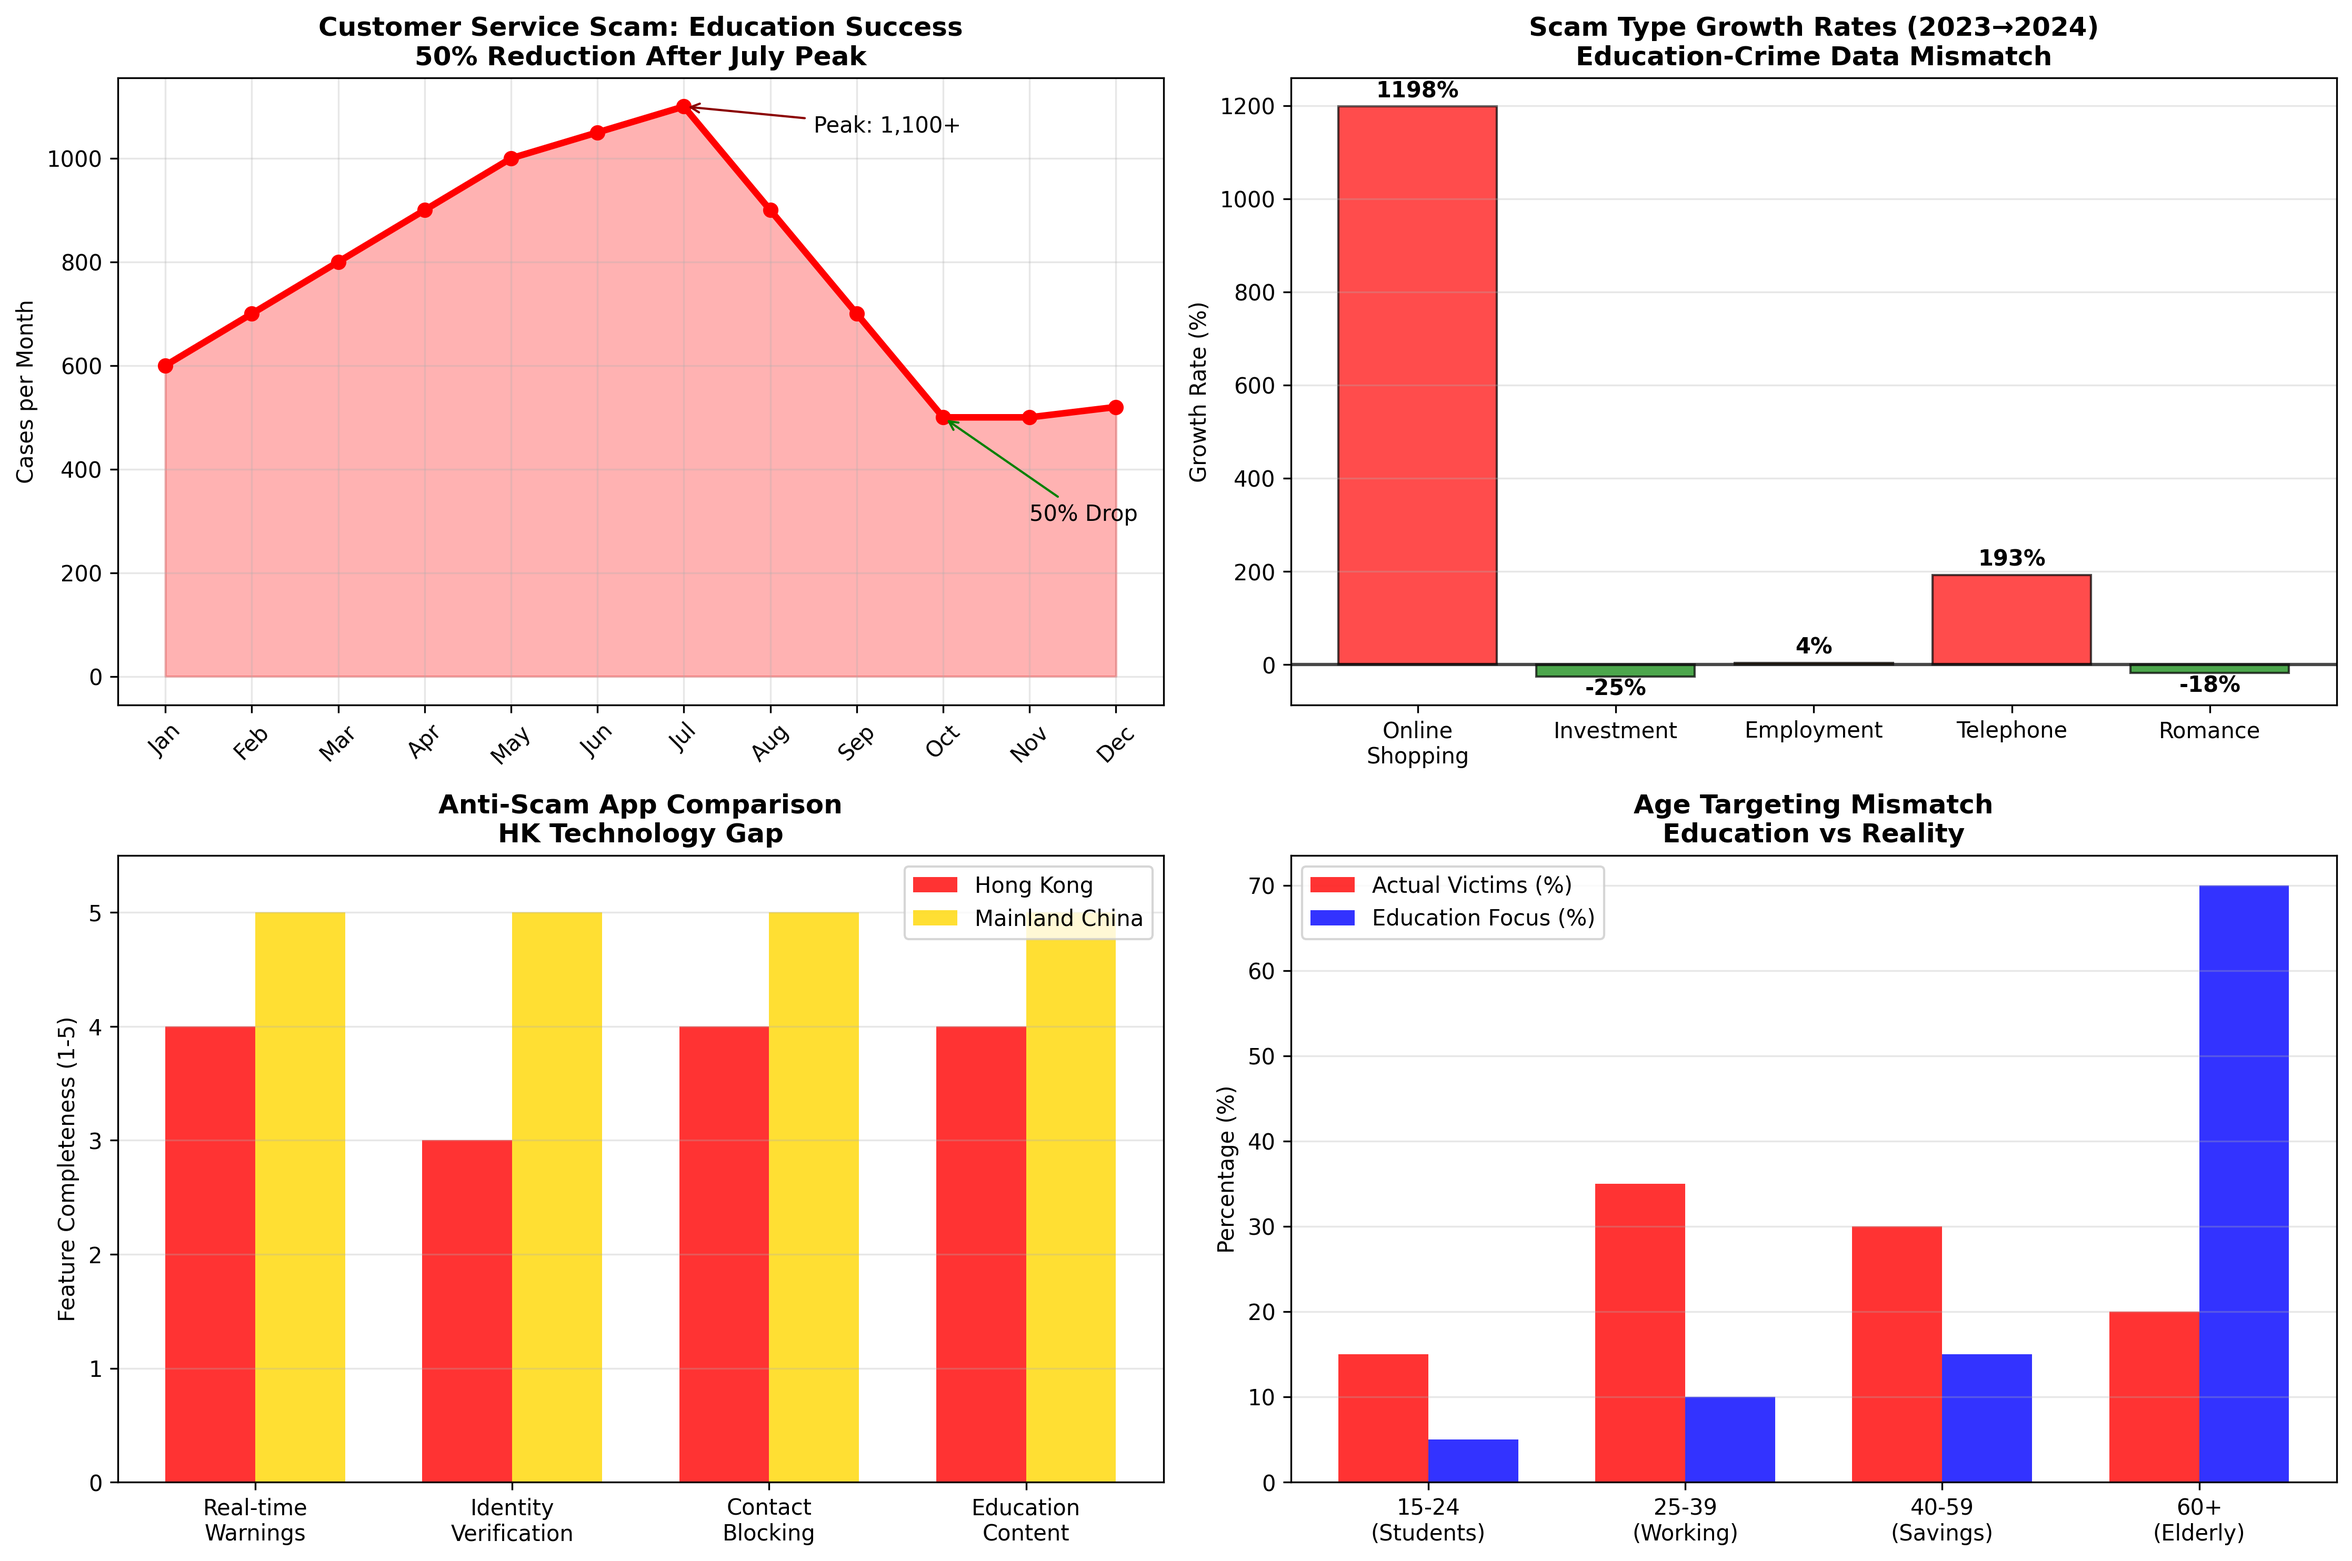
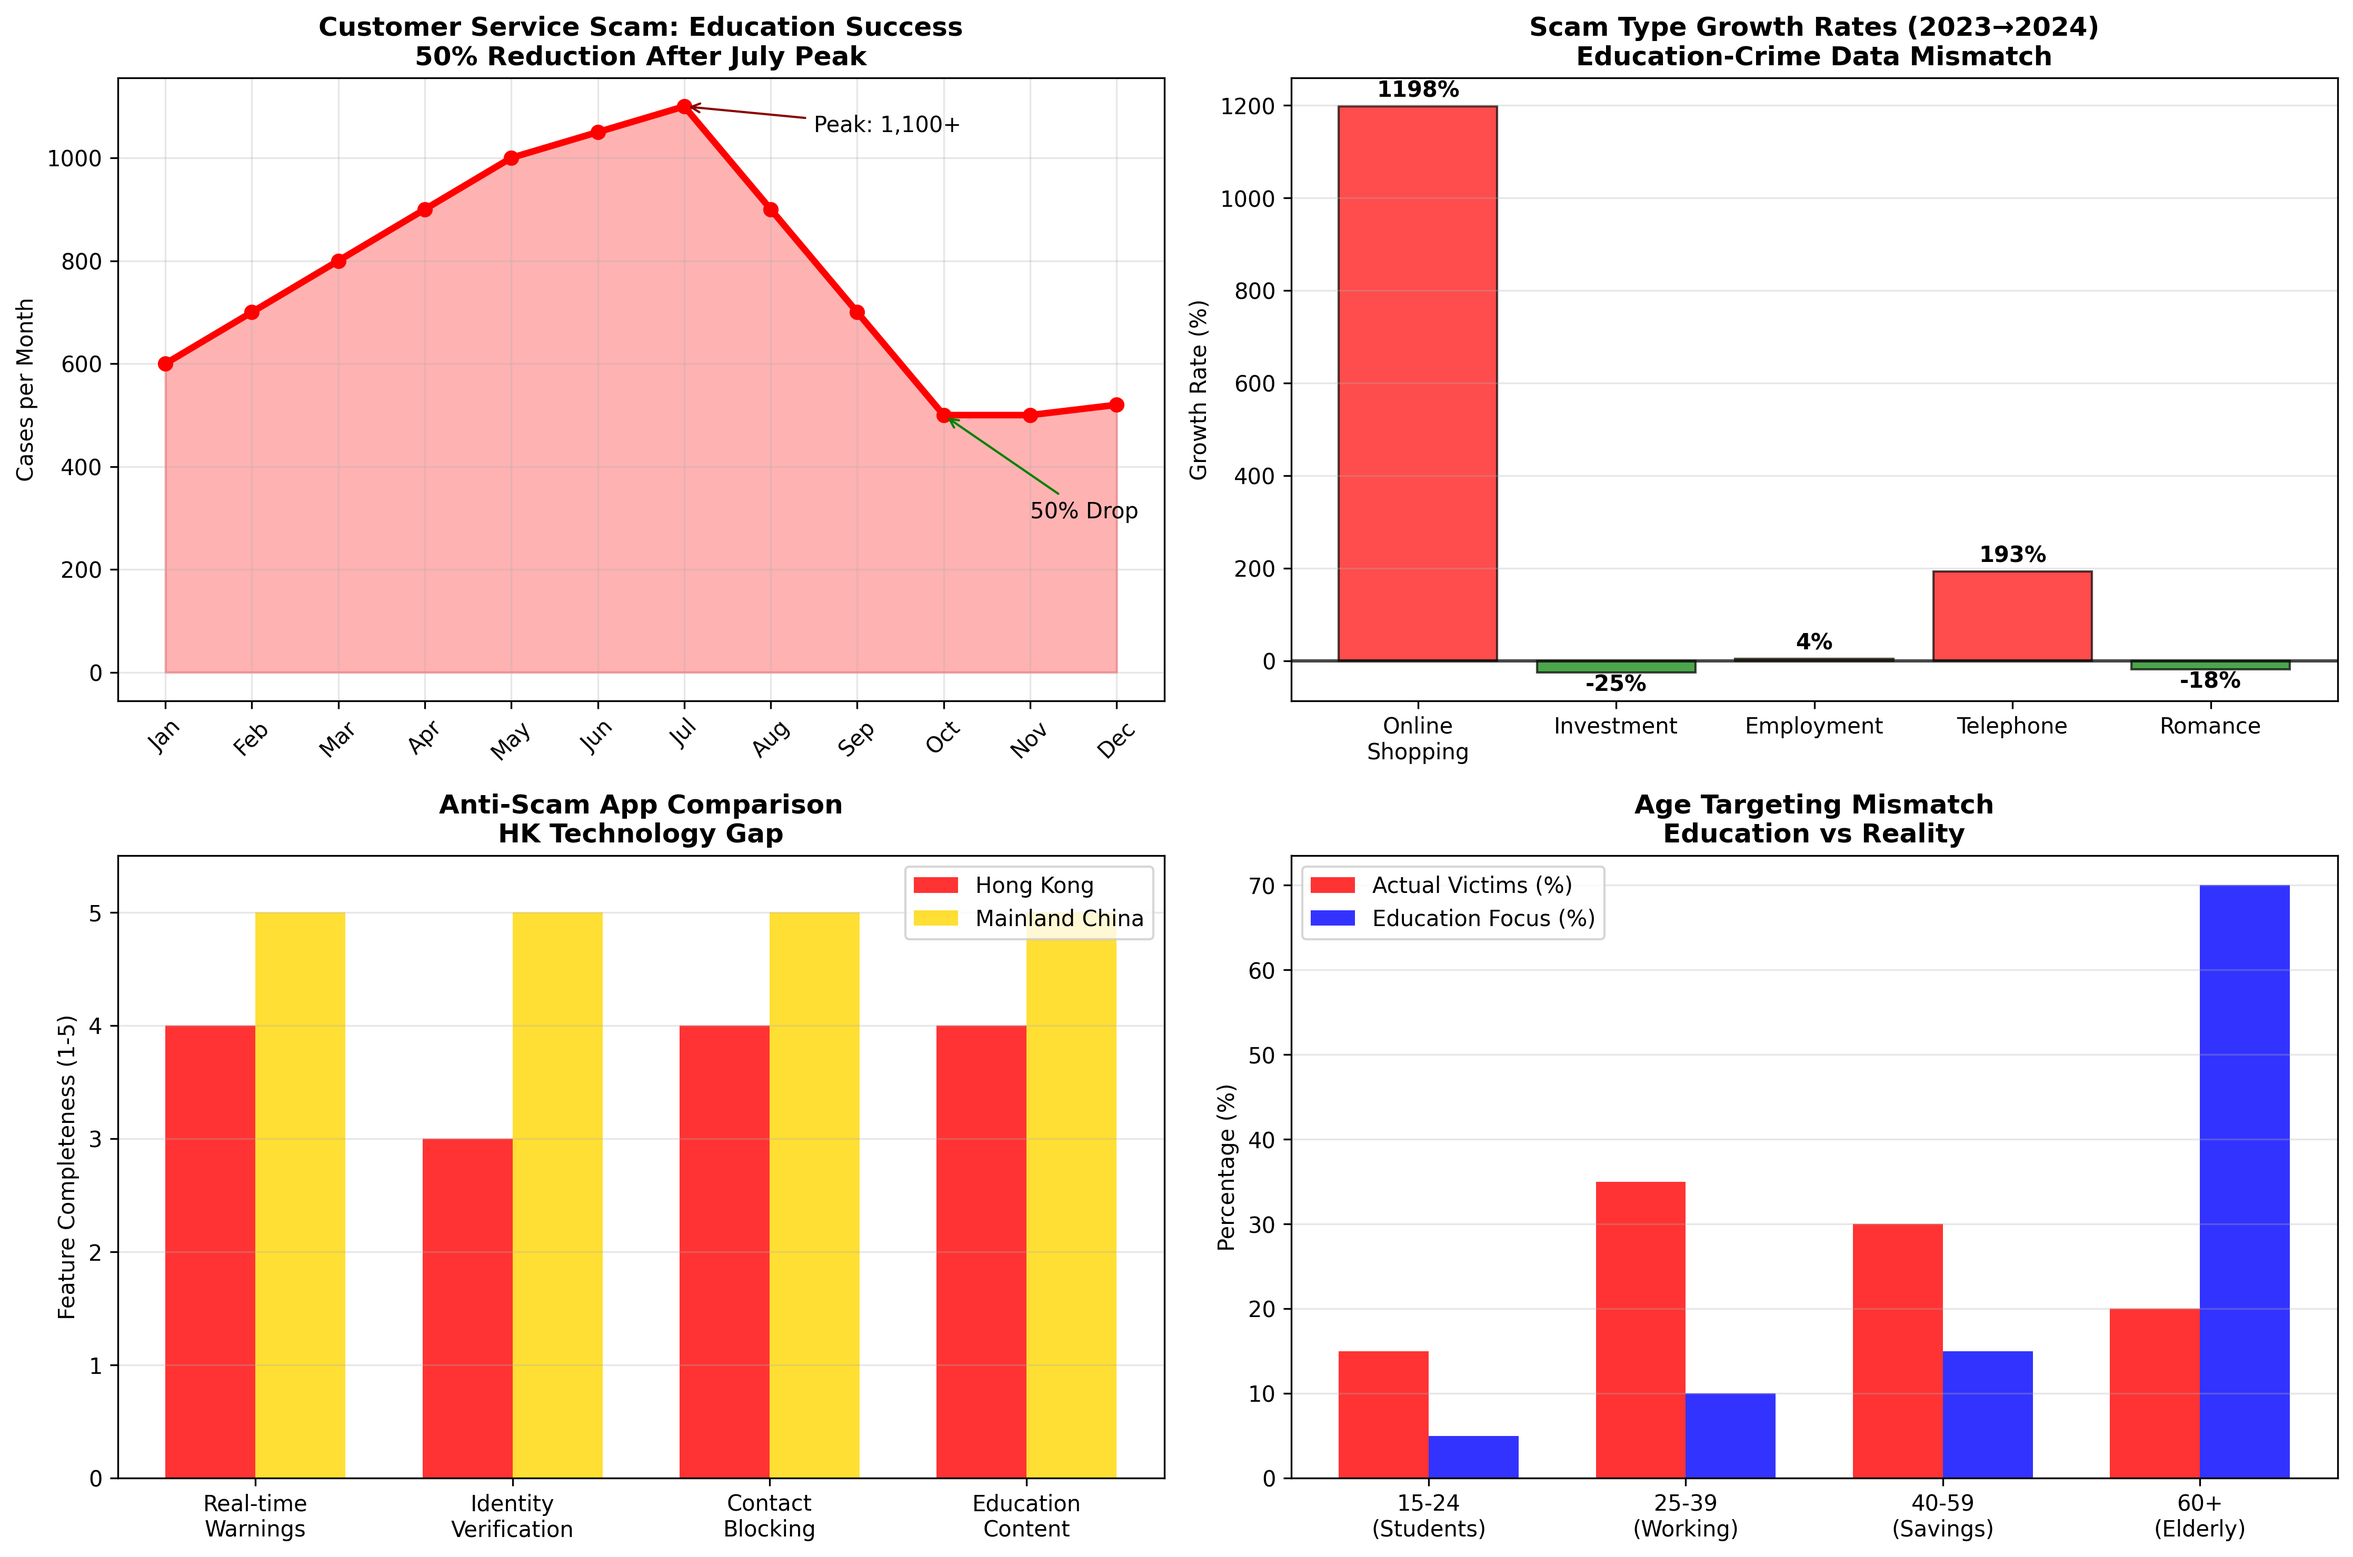
Auto-sync: 2025-09-18 20:45:11

diff --git a/projects/GCAP3056/Projects and teams/anti_scamming_education/scam_data_visualization.py b/projects/GCAP3056/Projects and teams/anti_scamming_education/scam_data_visualization.py
@@ -1,9 +1,15 @@
 #!/usr/bin/env python3
 """
-Hong Kong Scam Data Visualization
-GCAP3056 Anti-Scamming Education Project
-Data Source: Hong Kong Police Force Crime Statistics
+Comprehensive Anti-Scam Data Analysis and Visualization
+Based on Hong Kong Police Force statistics and education campaign data
 """
+
+import matplotlib
+matplotlib.use('Agg')  # Use non-interactive backend
+import matplotlib.pyplot as plt
+import pandas as pd
+import numpy as np
+import seaborn as sns
 
 import matplotlib.pyplot as plt
 import pandas as pd
@@ -69,7 +75,7 @@ def create_scam_trend_analysis():
     
     plt.tight_layout()
     plt.savefig('hong_kong_scam_trends.png', dpi=300, bbox_inches='tight')
-    plt.show()
+    print("✓ Chart generated successfully")
 
 def create_scam_type_analysis():
     """Analyze different types of scams and their impacts"""
@@ -166,7 +172,7 @@ def create_scam_type_analysis():
     
     plt.tight_layout()
     plt.savefig('scam_types_analysis.png', dpi=300, bbox_inches='tight')
-    plt.show()
+    print("✓ Chart generated successfully")
 
 def create_demographic_analysis():
     """Analyze victim demographics and education campaign targeting"""
@@ -245,7 +251,7 @@ def create_demographic_analysis():
     
     plt.tight_layout()
     plt.savefig('demographic_analysis.png', dpi=300, bbox_inches='tight')
-    plt.show()
+    print("✓ Chart generated successfully")
 
 def create_education_effectiveness_analysis():
     """Analyze the effectiveness of different education campaigns"""
@@ -336,7 +342,7 @@ def create_education_effectiveness_analysis():
     
     plt.tight_layout()
     plt.savefig('education_effectiveness.png', dpi=300, bbox_inches='tight')
-    plt.show()
+    print("✓ Chart generated successfully")
 
 def create_international_comparison():
     """Compare Hong Kong's anti-scam measures with other regions"""
@@ -376,14 +382,16 @@ def create_international_comparison():
     hk_effectiveness = [4, 4, 3, 4]
     mainland_effectiveness = [5, 5, 5, 5]
     
-    bars3 = ax2.bar(x - width/2, hk_effectiveness, width, label='Hong Kong', alpha=0.8, color='blue')
-    bars4 = ax2.bar(x + width/2, mainland_effectiveness, width, label='Mainland China', alpha=0.8, color='orange')
+    x2 = np.arange(len(response_types))
+    
+    bars3 = ax2.bar(x2 - width/2, hk_effectiveness, width, label='Hong Kong', alpha=0.8, color='blue')
+    bars4 = ax2.bar(x2 + width/2, mainland_effectiveness, width, label='Mainland China', alpha=0.8, color='orange')
     
     ax2.set_title('Response Mechanism Effectiveness\nComparative Analysis', 
                  fontsize=14, fontweight='bold')
     ax2.set_xlabel('Response Type', fontsize=12)
     ax2.set_ylabel('Effectiveness Score (1-5)', fontsize=12)
-    ax2.set_xticks(x)
+    ax2.set_xticks(x2)
     ax2.set_xticklabels(response_types)
     ax2.legend()
     ax2.grid(True, alpha=0.3, axis='y')
@@ -439,7 +447,7 @@ def create_international_comparison():
     
     plt.tight_layout()
     plt.savefig('international_comparison.png', dpi=300, bbox_inches='tight')
-    plt.show()
+    print("✓ Chart generated successfully")
 
 def create_policy_recommendations_analysis():
     """Visualize policy gaps and recommendations"""
@@ -534,7 +542,7 @@ def create_policy_recommendations_analysis():
     
     plt.tight_layout()
     plt.savefig('policy_recommendations.png', dpi=300, bbox_inches='tight')
-    plt.show()
+    print("✓ Chart generated successfully")
 
 def main():
     """Main function to generate all visualizations"""

diff --git a/projects/GCAP3056/Projects and teams/anti_scamming_education/simple_scam_analysis.py b/projects/GCAP3056/Projects and teams/anti_scamming_education/simple_scam_analysis.py
@@ -4,6 +4,8 @@ Key Anti-Scam Data Insights Visualization
 Simplified version focusing on the most important findings
 """
 
+import matplotlib
+matplotlib.use('Agg')  # Use non-interactive backend
 import matplotlib.pyplot as plt
 import pandas as pd
 import numpy as np
@@ -90,7 +92,7 @@ def create_key_insights():
     
     plt.tight_layout()
     plt.savefig('anti_scam_key_insights.png', dpi=300, bbox_inches='tight')
-    plt.show()
+    print("✓ Generated anti_scam_key_insights.png")
 
 def create_evidence_summary():
     """Create summary chart showing evidence for campaign-data misalignment"""
@@ -143,7 +145,7 @@ def create_evidence_summary():
     
     plt.tight_layout()
     plt.savefig('evidence_summary.png', dpi=300, bbox_inches='tight')
-    plt.show()
+    print("✓ Generated evidence_summary.png")
 
 def create_simple_data_table():
     """Create a summary data table"""
@@ -165,7 +167,7 @@ def create_simple_data_table():
     ax.axis('tight')
     ax.axis('off')
     
-    table = ax.table(cellText=df.values, colLabels=df.columns, 
+    table = ax.table(cellText=df.values.astype(str), colLabels=df.columns.tolist(), 
                     cellLoc='center', loc='center')
     table.auto_set_font_size(False)
     table.set_fontsize(10)
@@ -182,7 +184,7 @@ def create_simple_data_table():
     plt.title('Hong Kong Scam Data Summary 2024\nEvidence for Education-Crime Data Misalignment', 
              fontweight='bold', fontsize=14, pad=20)
     plt.savefig('scam_data_summary_table.png', dpi=300, bbox_inches='tight')
-    plt.show()
+    print("✓ Generated scam_data_summary_table.png")
     
     return df
 
